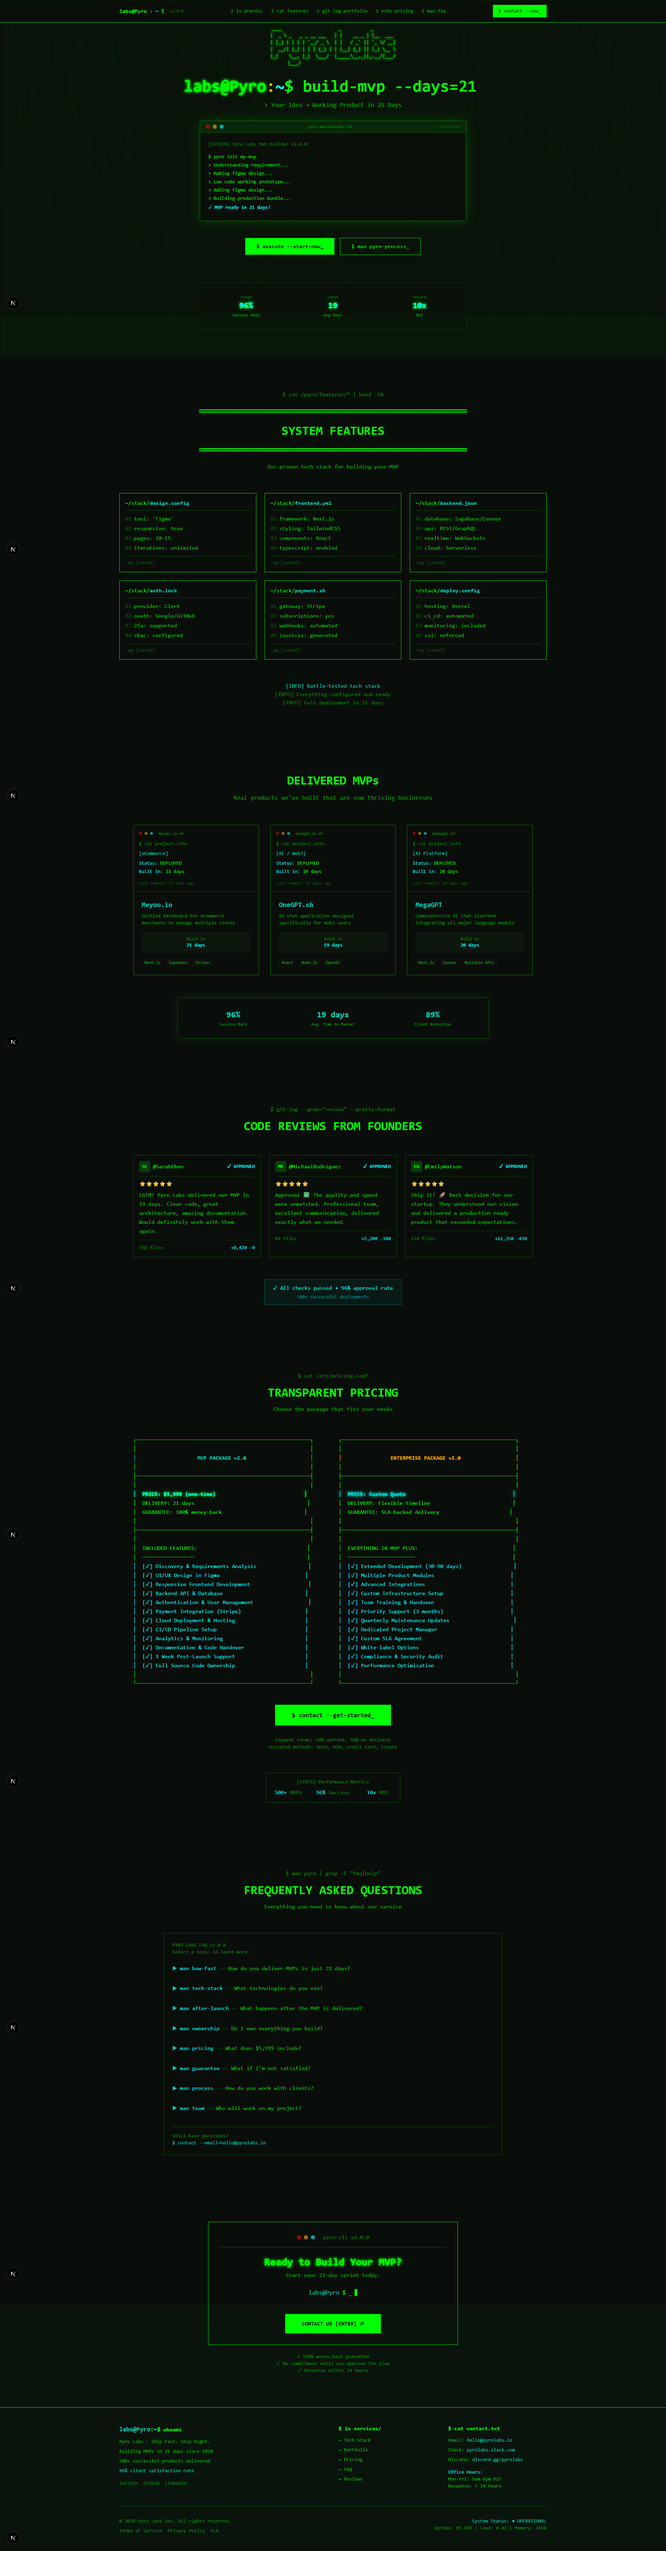
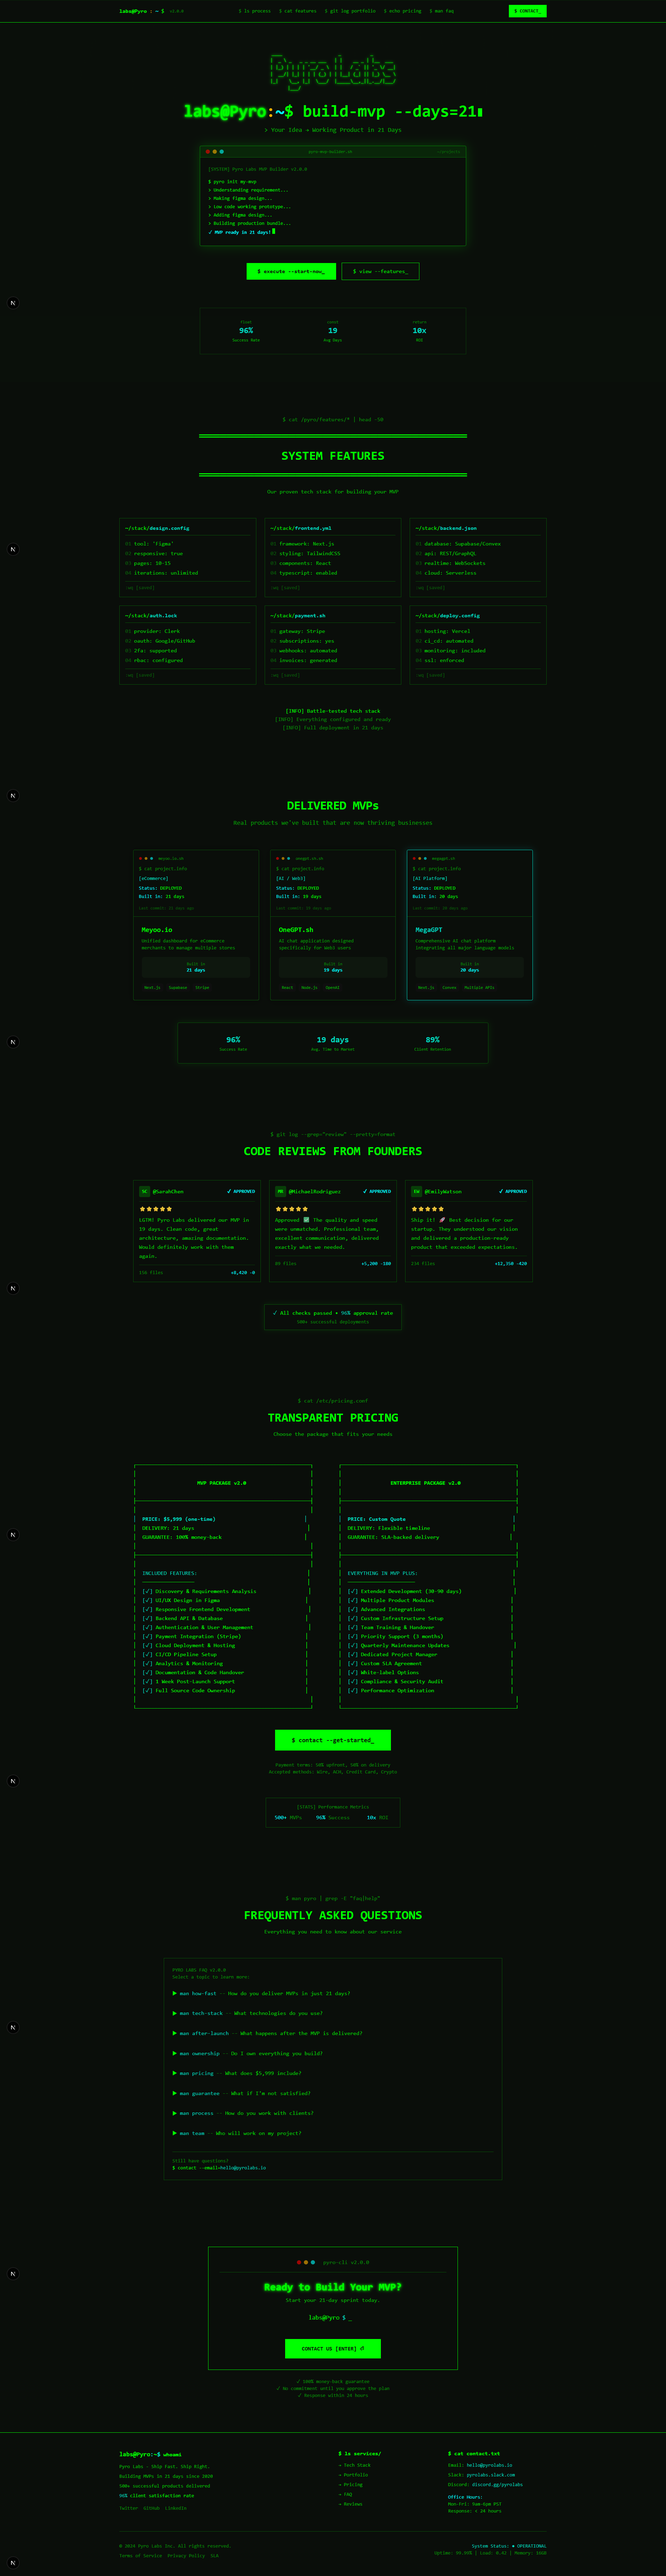
more consitance

diff --git a/components/home/footer.tsx b/components/home/footer.tsx
@@ -25,7 +25,7 @@ export function Footer() {
             </div>
             <div className="mt-4 flex gap-4">
               <a
-                className="text-primary/50 hover:text-teal-400 transition-colors text-sm"
+                className="text-primary/50 hover:text-teal-400 transition-colors duration-300 text-sm"
                 href="https://twitter.com/pyrolabs"
                 rel="noreferrer"
                 target="_blank"
@@ -33,7 +33,7 @@ export function Footer() {
                 Twitter
               </a>
               <a
-                className="text-primary/50 hover:text-teal-400 transition-colors text-sm"
+                className="text-primary/50 hover:text-teal-400 transition-colors duration-300 text-sm"
                 href="https://github.com/pyrolabs"
                 rel="noreferrer"
                 target="_blank"
@@ -41,7 +41,7 @@ export function Footer() {
                 GitHub
               </a>
               <a
-                className="text-primary/50 hover:text-teal-400 transition-colors text-sm"
+                className="text-primary/50 hover:text-teal-400 transition-colors duration-300 text-sm"
                 href="https://linkedin.com/company/pyrolabs"
                 rel="noreferrer"
                 target="_blank"
@@ -56,31 +56,31 @@ export function Footer() {
             <div className="text-primary mb-3 font-bold">$ ls services/</div>
             <div className="space-y-2 text-sm">
               <Link
-                className="block text-foreground/70 hover:text-teal-400 transition-colors"
+                className="block text-foreground/70 hover:text-teal-400 transition-colors duration-300"
                 href="#features"
               >
                 → Tech Stack
               </Link>
               <Link
-                className="block text-foreground/70 hover:text-teal-400 transition-colors"
+                className="block text-foreground/70 hover:text-teal-400 transition-colors duration-300"
                 href="#portfolio"
               >
                 → Portfolio
               </Link>
               <Link
-                className="block text-foreground/70 hover:text-teal-400 transition-colors"
+                className="block text-foreground/70 hover:text-teal-400 transition-colors duration-300"
                 href="#pricing"
               >
                 → Pricing
               </Link>
               <Link
-                className="block text-foreground/70 hover:text-teal-400 transition-colors"
+                className="block text-foreground/70 hover:text-teal-400 transition-colors duration-300"
                 href="#faq"
               >
                 → FAQ
               </Link>
               <Link
-                className="block text-foreground/70 hover:text-teal-400 transition-colors"
+                className="block text-foreground/70 hover:text-teal-400 transition-colors duration-300"
                 href="#testimonials"
               >
                 → Reviews
@@ -118,19 +118,19 @@ export function Footer() {
               <div>© 2024 Pyro Labs Inc. All rights reserved.</div>
               <div className="mt-2 space-x-4">
                 <Link
-                  className="hover:text-teal-400 transition-colors"
+                  className="hover:text-teal-400 transition-colors duration-300"
                   href="/terms"
                 >
                   Terms of Service
                 </Link>
                 <Link
-                  className="hover:text-teal-400 transition-colors"
+                  className="hover:text-teal-400 transition-colors duration-300"
                   href="/privacy"
                 >
                   Privacy Policy
                 </Link>
                 <Link
-                  className="hover:text-teal-400 transition-colors"
+                  className="hover:text-teal-400 transition-colors duration-300"
                   href="/sla"
                 >
                   SLA

diff --git a/components/home/case-studies.tsx b/components/home/case-studies.tsx
@@ -43,8 +43,8 @@ const caseStudies = [
 
 export function CaseStudies() {
   return (
-    <section className="relative py-24 bg-background" id="portfolio">
-      <div className="mx-auto max-w-7xl px-6 lg:px-8">
+    <section className="relative py-20 bg-background" id="portfolio">
+      <div className="mx-auto max-w-6xl px-6">
         {/* Header */}
         <div className="mx-auto max-w-2xl text-center">
           <motion.div
@@ -53,8 +53,17 @@ export function CaseStudies() {
             viewport={{ once: true }}
             whileInView={{ opacity: 1, y: 0 }}
           >
-            <h2 className="text-4xl font-bold tracking-tight font-mono text-primary">
+            <div className="font-mono text-base text-primary/50 mb-4">
+              $ ls -la /projects/delivered/*.mvp
+            </div>
+            <h2 className="text-4xl font-mono font-bold text-primary mb-4">
+              ═══════════════════════════════════════
+            </h2>
+            <h2 className="text-4xl font-bold tracking-tight font-mono text-primary mb-4">
               DELIVERED MVPs
+            </h2>
+            <h2 className="text-4xl font-mono font-bold text-primary mb-4">
+              ═══════════════════════════════════════
             </h2>
             <p className="mt-4 text-lg text-foreground/60 font-mono">
               Real products we&apos;ve built that are now thriving businesses
@@ -73,7 +82,7 @@ export function CaseStudies() {
                 viewport={{ once: true }}
                 whileInView={{ opacity: 1, y: 0 }}
               >
-                <Card className="group h-full overflow-hidden border border-primary/30 bg-background/90 backdrop-blur hover:border-teal-400 hover:shadow-[0_0_20px_rgba(0,212,212,0.2)] transition-all rounded-sm">
+                <Card className="group h-full overflow-hidden border border-primary/30 bg-background/90 backdrop-blur hover:border-teal-400 hover:shadow-[0_0_20px_rgba(0,212,212,0.2)] transition-all duration-300 rounded-sm">
                   {/* Terminal Header */}
                   <div className="relative h-48 bg-background border-b border-primary/30 p-4 font-mono text-sm">
                     <div className="flex items-center gap-2 mb-3">

diff --git a/components/home/faq.tsx b/components/home/faq.tsx
@@ -58,8 +58,8 @@ export function FAQ() {
   const [openIndex, setOpenIndex] = useState<number | null>(null);
 
   return (
-    <section className="py-24 bg-background" id="faq">
-      <div className="max-w-5xl mx-auto px-6">
+    <section className="py-20 bg-background/30 border-y border-primary/20" id="faq">
+      <div className="max-w-6xl mx-auto px-6">
         {/* Header */}
         <motion.div
           className="text-center mb-16"
@@ -71,9 +71,15 @@ export function FAQ() {
             $ man pyro | grep -E &quot;faq|help&quot;
           </div>
           <h2 className="text-4xl font-mono font-bold text-primary mb-4">
+            ═══════════════════════════════════════
+          </h2>
+          <h2 className="text-4xl font-mono font-bold text-primary mb-4">
             FREQUENTLY ASKED QUESTIONS
           </h2>
-          <p className="font-mono text-base text-primary/70">
+          <h2 className="text-4xl font-mono font-bold text-primary mb-4">
+            ═══════════════════════════════════════
+          </h2>
+          <p className="font-mono text-base text-primary/70 mt-4">
             Everything you need to know about our service
           </p>
         </motion.div>
@@ -99,7 +105,7 @@ export function FAQ() {
                 className="w-full text-left"
                 onClick={() => setOpenIndex(openIndex === index ? null : index)}
               >
-                <div className="flex items-center gap-2 py-2 hover:bg-primary/5 transition-colors px-2 -mx-2">
+                <div className="flex items-center gap-2 py-2 hover:bg-primary/5 transition-colors duration-300 px-2 -mx-2">
                   <span className="text-primary">
                     {openIndex === index ? "▼" : "▶"}
                   </span>

diff --git a/components/home/pricing.tsx b/components/home/pricing.tsx
@@ -67,8 +67,8 @@ const enterprisePackage = [
 
 export function Pricing() {
   return (
-    <section className="py-24 bg-background" id="pricing">
-      <div className="max-w-7xl mx-auto px-6">
+    <section className="py-20 bg-background" id="pricing">
+      <div className="max-w-6xl mx-auto px-6">
         {/* Header */}
         <motion.div
           className="text-center mb-16"
@@ -80,9 +80,15 @@ export function Pricing() {
             $ cat /etc/pricing.conf
           </div>
           <h2 className="text-4xl font-mono font-bold text-primary mb-4">
+            ═══════════════════════════════════════
+          </h2>
+          <h2 className="text-4xl font-mono font-bold text-primary mb-4">
             TRANSPARENT PRICING
           </h2>
-          <p className="font-mono text-base text-primary/70">
+          <h2 className="text-4xl font-mono font-bold text-primary mb-4">
+            ═══════════════════════════════════════
+          </h2>
+          <p className="font-mono text-base text-primary/70 mt-4">
             Choose the package that fits your needs
           </p>
         </motion.div>
@@ -163,7 +169,7 @@ export function Pricing() {
           whileInView={{ opacity: 1, y: 0 }}
         >
           <Link
-            className="inline-block bg-primary text-background font-mono font-bold px-12 py-4 hover:bg-primary/80 transition-colors text-lg"
+            className="inline-block bg-primary text-background font-mono font-bold px-12 py-4 hover:bg-primary/80 hover:shadow-[0_0_20px_rgba(0,212,212,0.3)] transition-all duration-300 text-lg"
             href="#get-started"
           >
             $ contact --get-started_

diff --git a/components/home/testimonials.tsx b/components/home/testimonials.tsx
@@ -37,8 +37,8 @@ const reviews = [
 
 export function Testimonials() {
   return (
-    <section className="py-24 bg-background" id="testimonials">
-      <div className="max-w-7xl mx-auto px-6">
+    <section className="py-20 bg-background/30 border-y border-primary/20" id="testimonials">
+      <div className="max-w-6xl mx-auto px-6">
         {/* Header */}
         <motion.div
           className="text-center mb-16"
@@ -50,7 +50,13 @@ export function Testimonials() {
             $ git log --grep=&quot;review&quot; --pretty=format
           </div>
           <h2 className="text-4xl font-mono font-bold text-primary mb-4">
+            ═══════════════════════════════════════
+          </h2>
+          <h2 className="text-4xl font-mono font-bold text-primary mb-4">
             CODE REVIEWS FROM FOUNDERS
+          </h2>
+          <h2 className="text-4xl font-mono font-bold text-primary mb-4">
+            ═══════════════════════════════════════
           </h2>
         </motion.div>
 
@@ -59,7 +65,7 @@ export function Testimonials() {
           {reviews.map((review, index) => (
             <motion.div
               key={review.author}
-              className="border border-primary/30 bg-background/50 p-4 font-mono text-base hover:border-teal-400 hover:shadow-[0_0_20px_rgba(0,212,212,0.2)] transition-all"
+              className="border border-primary/30 bg-background/50 p-4 font-mono text-base hover:border-teal-400 hover:shadow-[0_0_20px_rgba(0,212,212,0.2)] transition-all duration-300"
               initial={{ opacity: 0, y: 20 }}
               transition={{ delay: index * 0.1 }}
               viewport={{ once: true }}

diff --git a/components/home/hero.tsx b/components/home/hero.tsx
@@ -61,7 +61,7 @@ export function Hero() {
   }, []);
 
   return (
-    <section className="relative min-h-screen  flex items-center justify-center overflow-hidden pt-36">
+    <section className="relative min-h-screen  flex items-center justify-center overflow-hidden pt-24">
       {/* Matrix Rain Background */}
       <MatrixRain />
       {/* CRT scanline effect */}
@@ -188,7 +188,7 @@ export function Hero() {
           >
             <Button
               as={Link}
-              className="bg-primary text-background font-mono font-bold px-8 py-6 hover:bg-primary/80 hover:shadow-[0_0_15px_rgba(0,255,0,0.3)] transition-all"
+              className="bg-primary text-background font-mono font-bold px-8 py-6 hover:bg-primary/80 hover:shadow-[0_0_20px_rgba(0,212,212,0.3)] transition-all duration-300"
               href="#get-started"
               size="lg"
             >
@@ -196,7 +196,7 @@ export function Hero() {
             </Button>
             <Button
               as={Link}
-              className="border-primary text-primary font-mono px-8 py-6 hover:bg-primary/10 hover:border-teal-400 hover:text-teal-400 transition-all"
+              className="border-primary text-primary font-mono px-8 py-6 hover:bg-primary/10 hover:border-teal-400 hover:text-teal-400 hover:shadow-[0_0_20px_rgba(0,212,212,0.2)] transition-all duration-300"
               href="#features"
               size="lg"
               variant="bordered"

diff --git a/components/home/navbar.tsx b/components/home/navbar.tsx
@@ -29,11 +29,11 @@ export function Navbar() {
             {navItems.map((item) => (
               <Link
                 key={item.href}
-                className="font-mono text-sm text-primary/70 hover:text-primary transition-all group"
+                className="font-mono text-sm text-primary/70 hover:text-teal-400 transition-all duration-300 group"
                 href={item.href}
               >
                 <span className="text-primary/50 transition-colors">$ </span>
-                <span className="group-hover:text-teal-400 transition-all">
+                <span className="group-hover:text-teal-400 transition-all duration-300">
                   {item.cmd} {item.label.toLowerCase()}
                 </span>
               </Link>
@@ -42,7 +42,7 @@ export function Navbar() {
 
           {/* CTA */}
           <Link
-            className="font-mono text-sm bg-primary text-background px-4 py-2 hover:bg-primary/80 hover:shadow-[0_0_15px_rgba(0,255,0,0.3)] transition-all uppercase font-bold"
+            className="font-mono text-sm bg-primary text-background px-4 py-2 hover:bg-primary/80 hover:shadow-[0_0_20px_rgba(0,212,212,0.3)] transition-all duration-300 uppercase font-bold"
             href="#get-started"
           >
             $ CONTACT_

diff --git a/components/home/features-grid.tsx b/components/home/features-grid.tsx
@@ -61,8 +61,8 @@ const features = [
 
 export function FeaturesGrid() {
   return (
-    <section className="py-24 bg-background" id="features">
-      <div className="max-w-7xl mx-auto px-6">
+    <section className="py-20 bg-background/30 border-y border-primary/20" id="features">
+      <div className="max-w-6xl mx-auto px-6">
         {/* Header */}
         <motion.div
           className="text-center mb-16"
@@ -92,7 +92,7 @@ export function FeaturesGrid() {
           {features.map((feature, index) => (
             <motion.div
               key={feature.title}
-              className="border border-primary/30 bg-background/50 p-4 font-mono text-base hover:border-teal-400 hover:shadow-[0_0_20px_rgba(0,212,212,0.2)] transition-all"
+              className="border border-primary/30 bg-background/50 p-4 font-mono text-base hover:border-teal-400 hover:shadow-[0_0_20px_rgba(0,212,212,0.2)] transition-all duration-300"
               initial={{ opacity: 0, y: 20 }}
               transition={{ delay: index * 0.1 }}
               viewport={{ once: true }}

diff --git a/components/home/cta.tsx b/components/home/cta.tsx
@@ -16,7 +16,7 @@ export function CTA() {
   }, []);
 
   return (
-    <section className="py-24 bg-background" id="get-started">
+    <section className="py-20 bg-background" id="get-started">
       <div className="max-w-3xl mx-auto px-6">
         <motion.div
           className="border border-primary bg-background/50 p-8 font-mono text-center"
@@ -55,7 +55,7 @@ export function CTA() {
 
             {/* CTA Button */}
             <Link
-              className="inline-block bg-primary text-background font-bold py-4 px-12 hover:bg-primary/80 hover:shadow-[0_0_15px_rgba(0,255,0,0.3)] transition-all text-base mt-6 uppercase"
+              className="inline-block bg-primary text-background font-bold py-4 px-12 hover:bg-primary/80 hover:shadow-[0_0_20px_rgba(0,212,212,0.3)] transition-all duration-300 text-base mt-6 uppercase"
               href="mailto:hello@pyrolabs.io?subject=MVP%20Project%20Inquiry"
             >
               CONTACT US [ENTER] ⏎

diff --git a/app/(unprojected)/page.tsx b/app/(unprojected)/page.tsx
@@ -4,6 +4,7 @@ import { FAQ } from "@/components/home/faq";
 import { FeaturesGrid } from "@/components/home/features-grid";
 import { Footer } from "@/components/home/footer";
 import { Hero } from "@/components/home/hero";
+
 import { Navbar } from "@/components/home/navbar";
 import { Pricing } from "@/components/home/pricing";
 import { Testimonials } from "@/components/home/testimonials";
